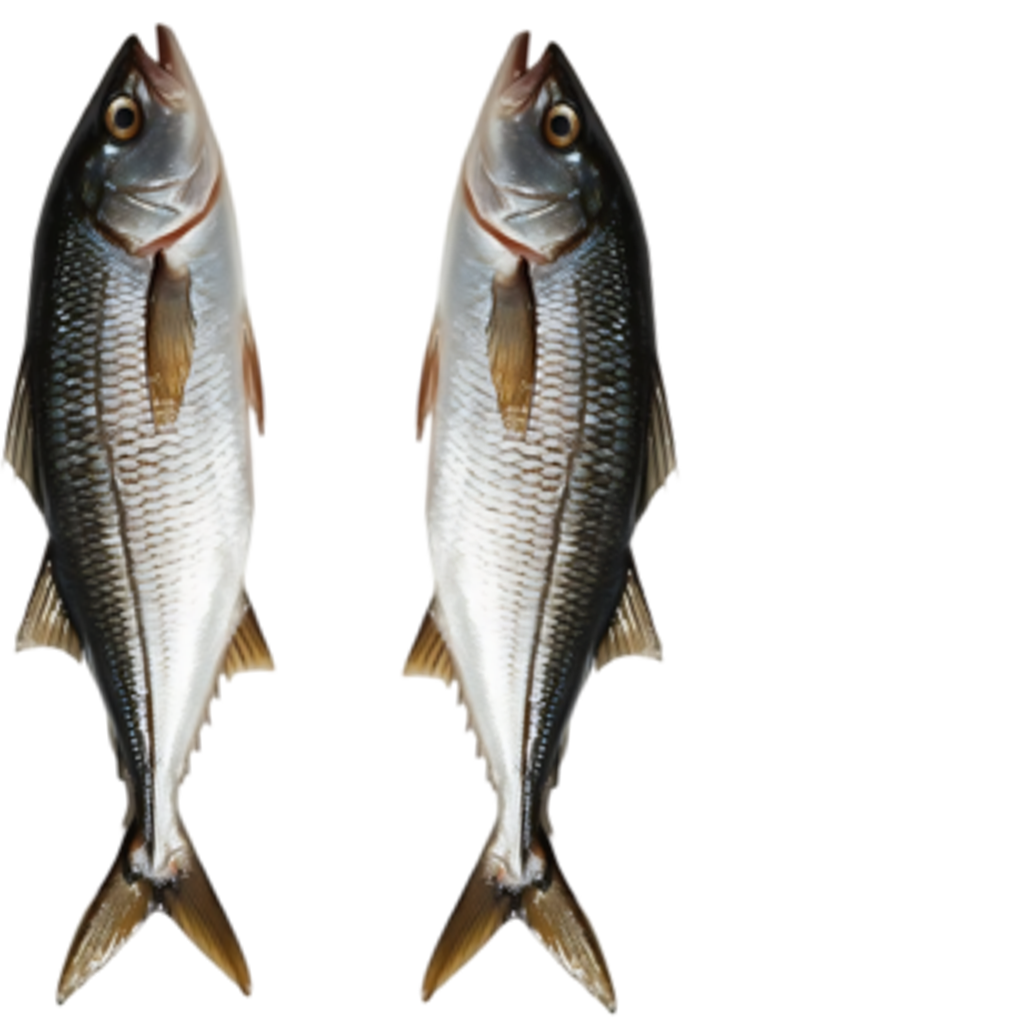
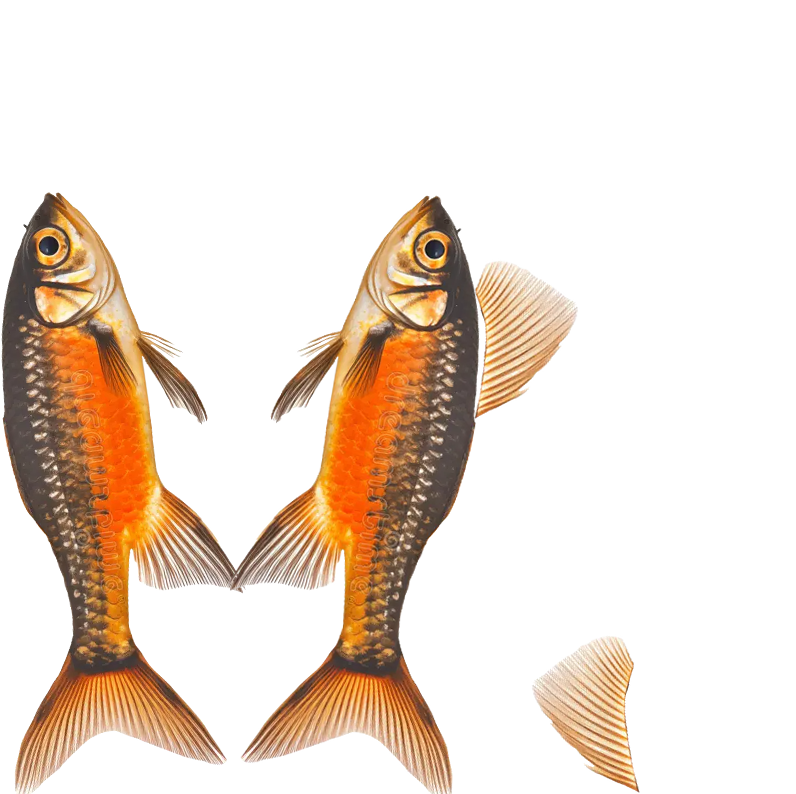
Terrain & corals

diff --git a/Assets/Scripts/Runtime/Player/GodRaysFollows.cs b/Assets/Scripts/Runtime/Player/GodRaysFollows.cs
@@ -1,0 +1,17 @@
+using UnityEngine;
+
+public class FollowNoRotation : MonoBehaviour
+{
+    public Transform target;
+
+    void LateUpdate()
+    {
+        if (target == null) return;
+
+        // Follow position
+        transform.position = target.position;
+
+        // Keep fixed rotation
+        transform.rotation = Quaternion.identity;
+    }
+} 